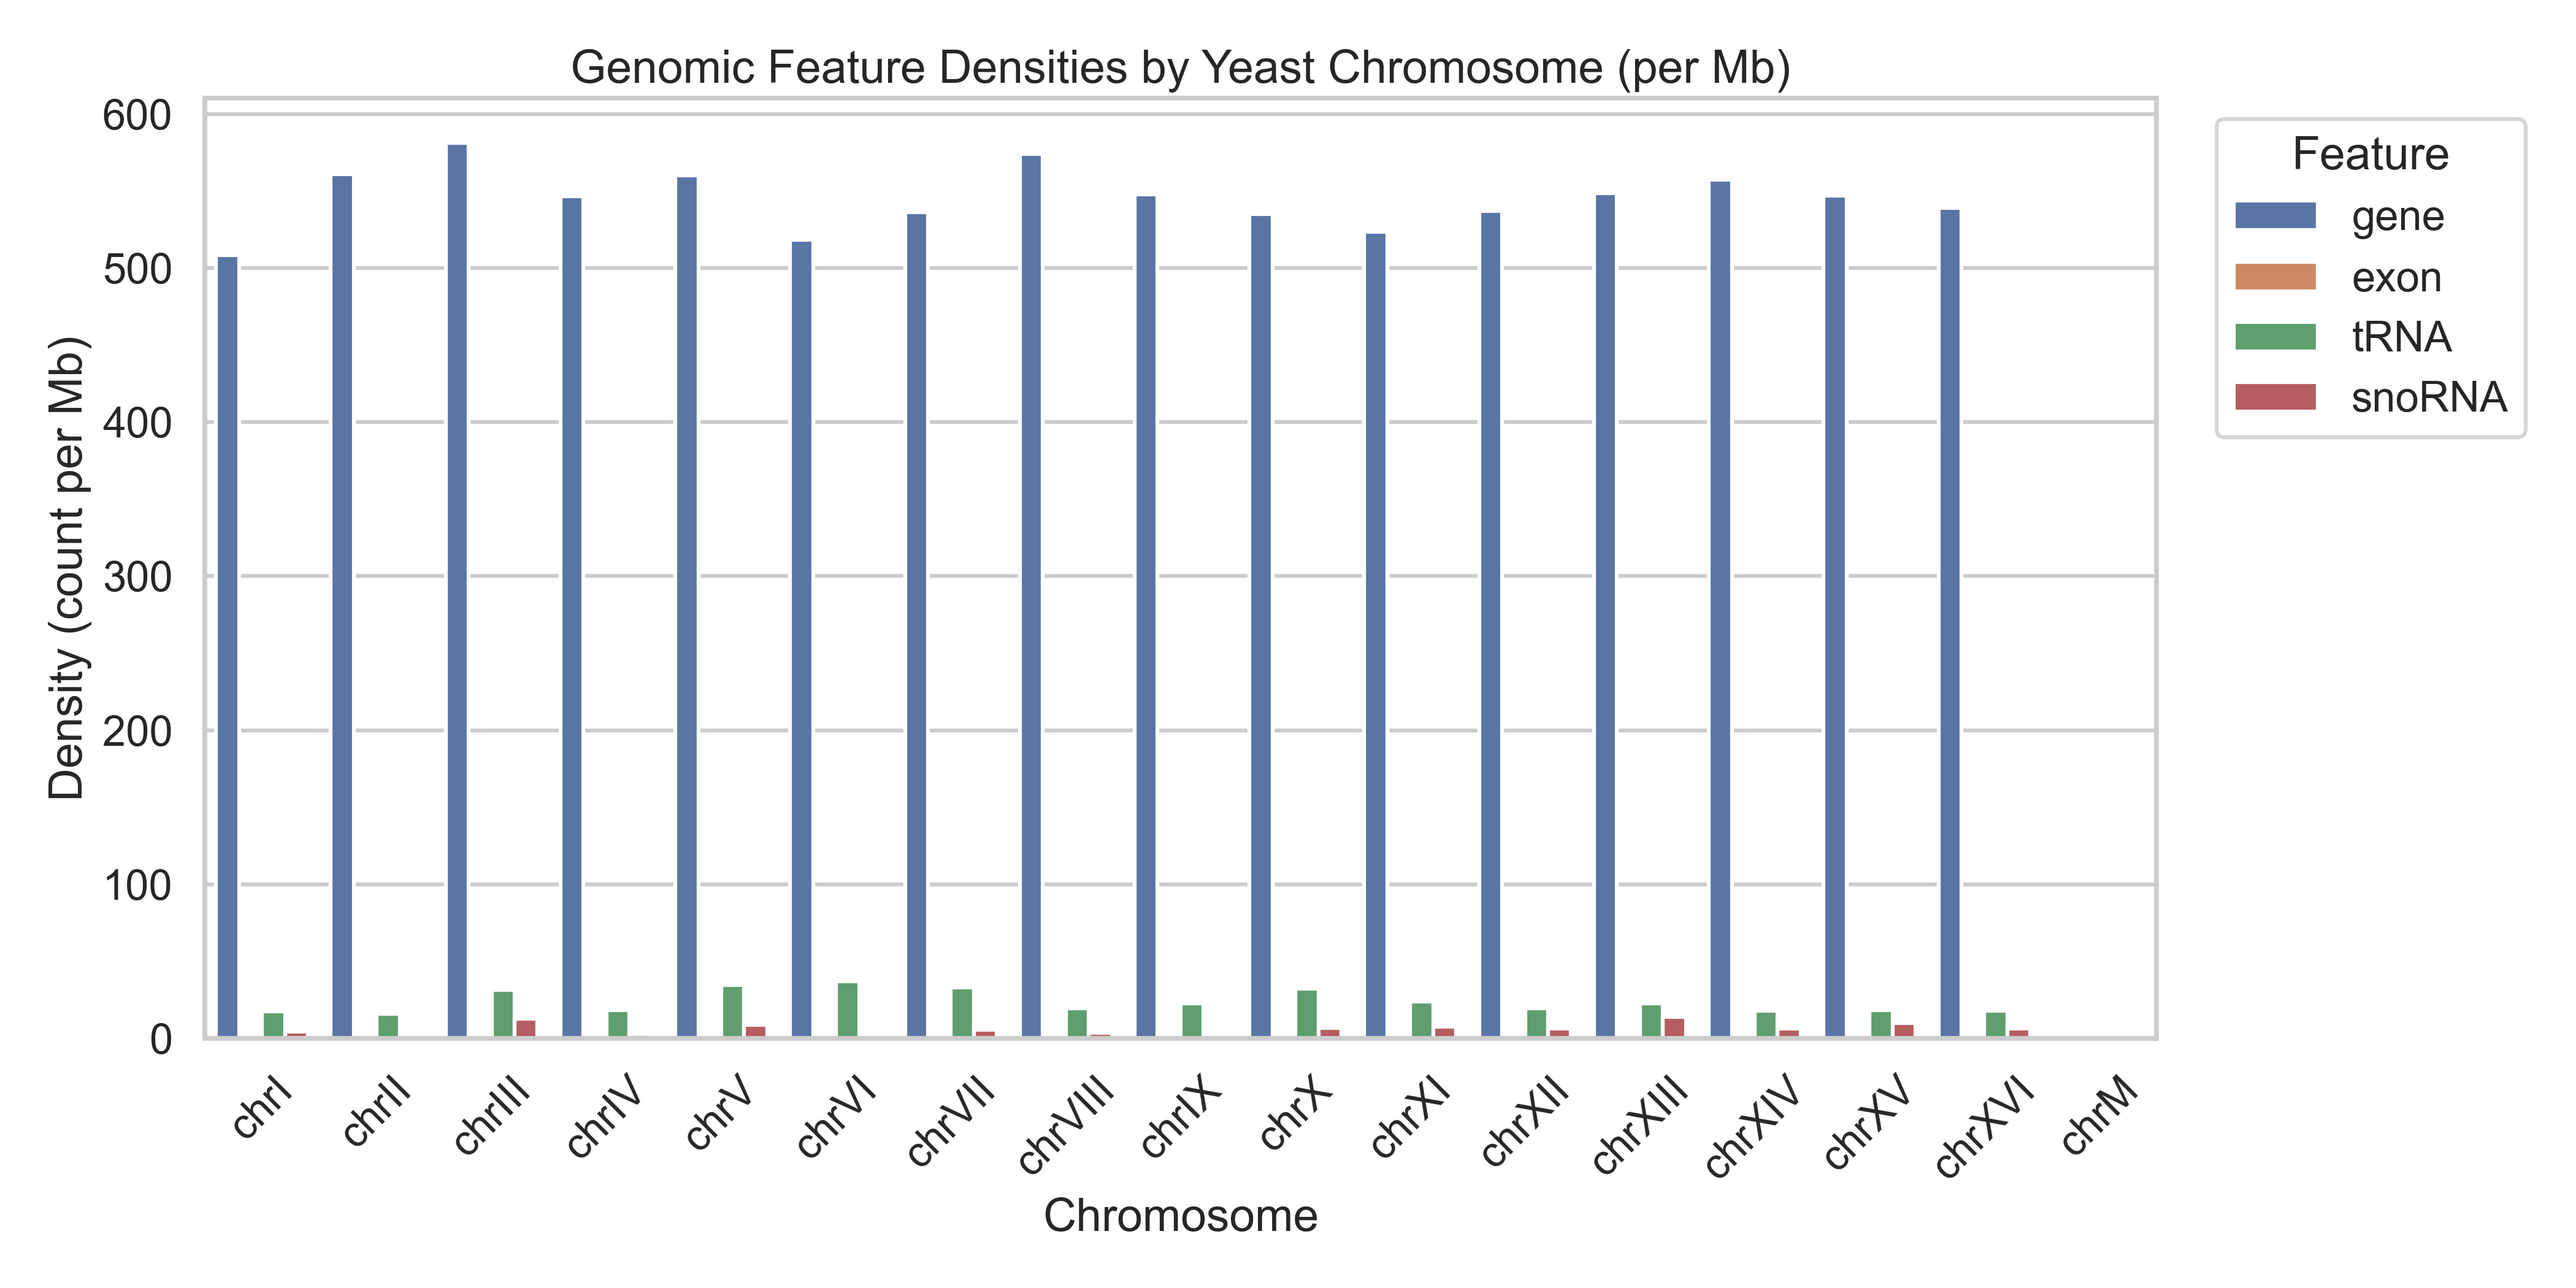
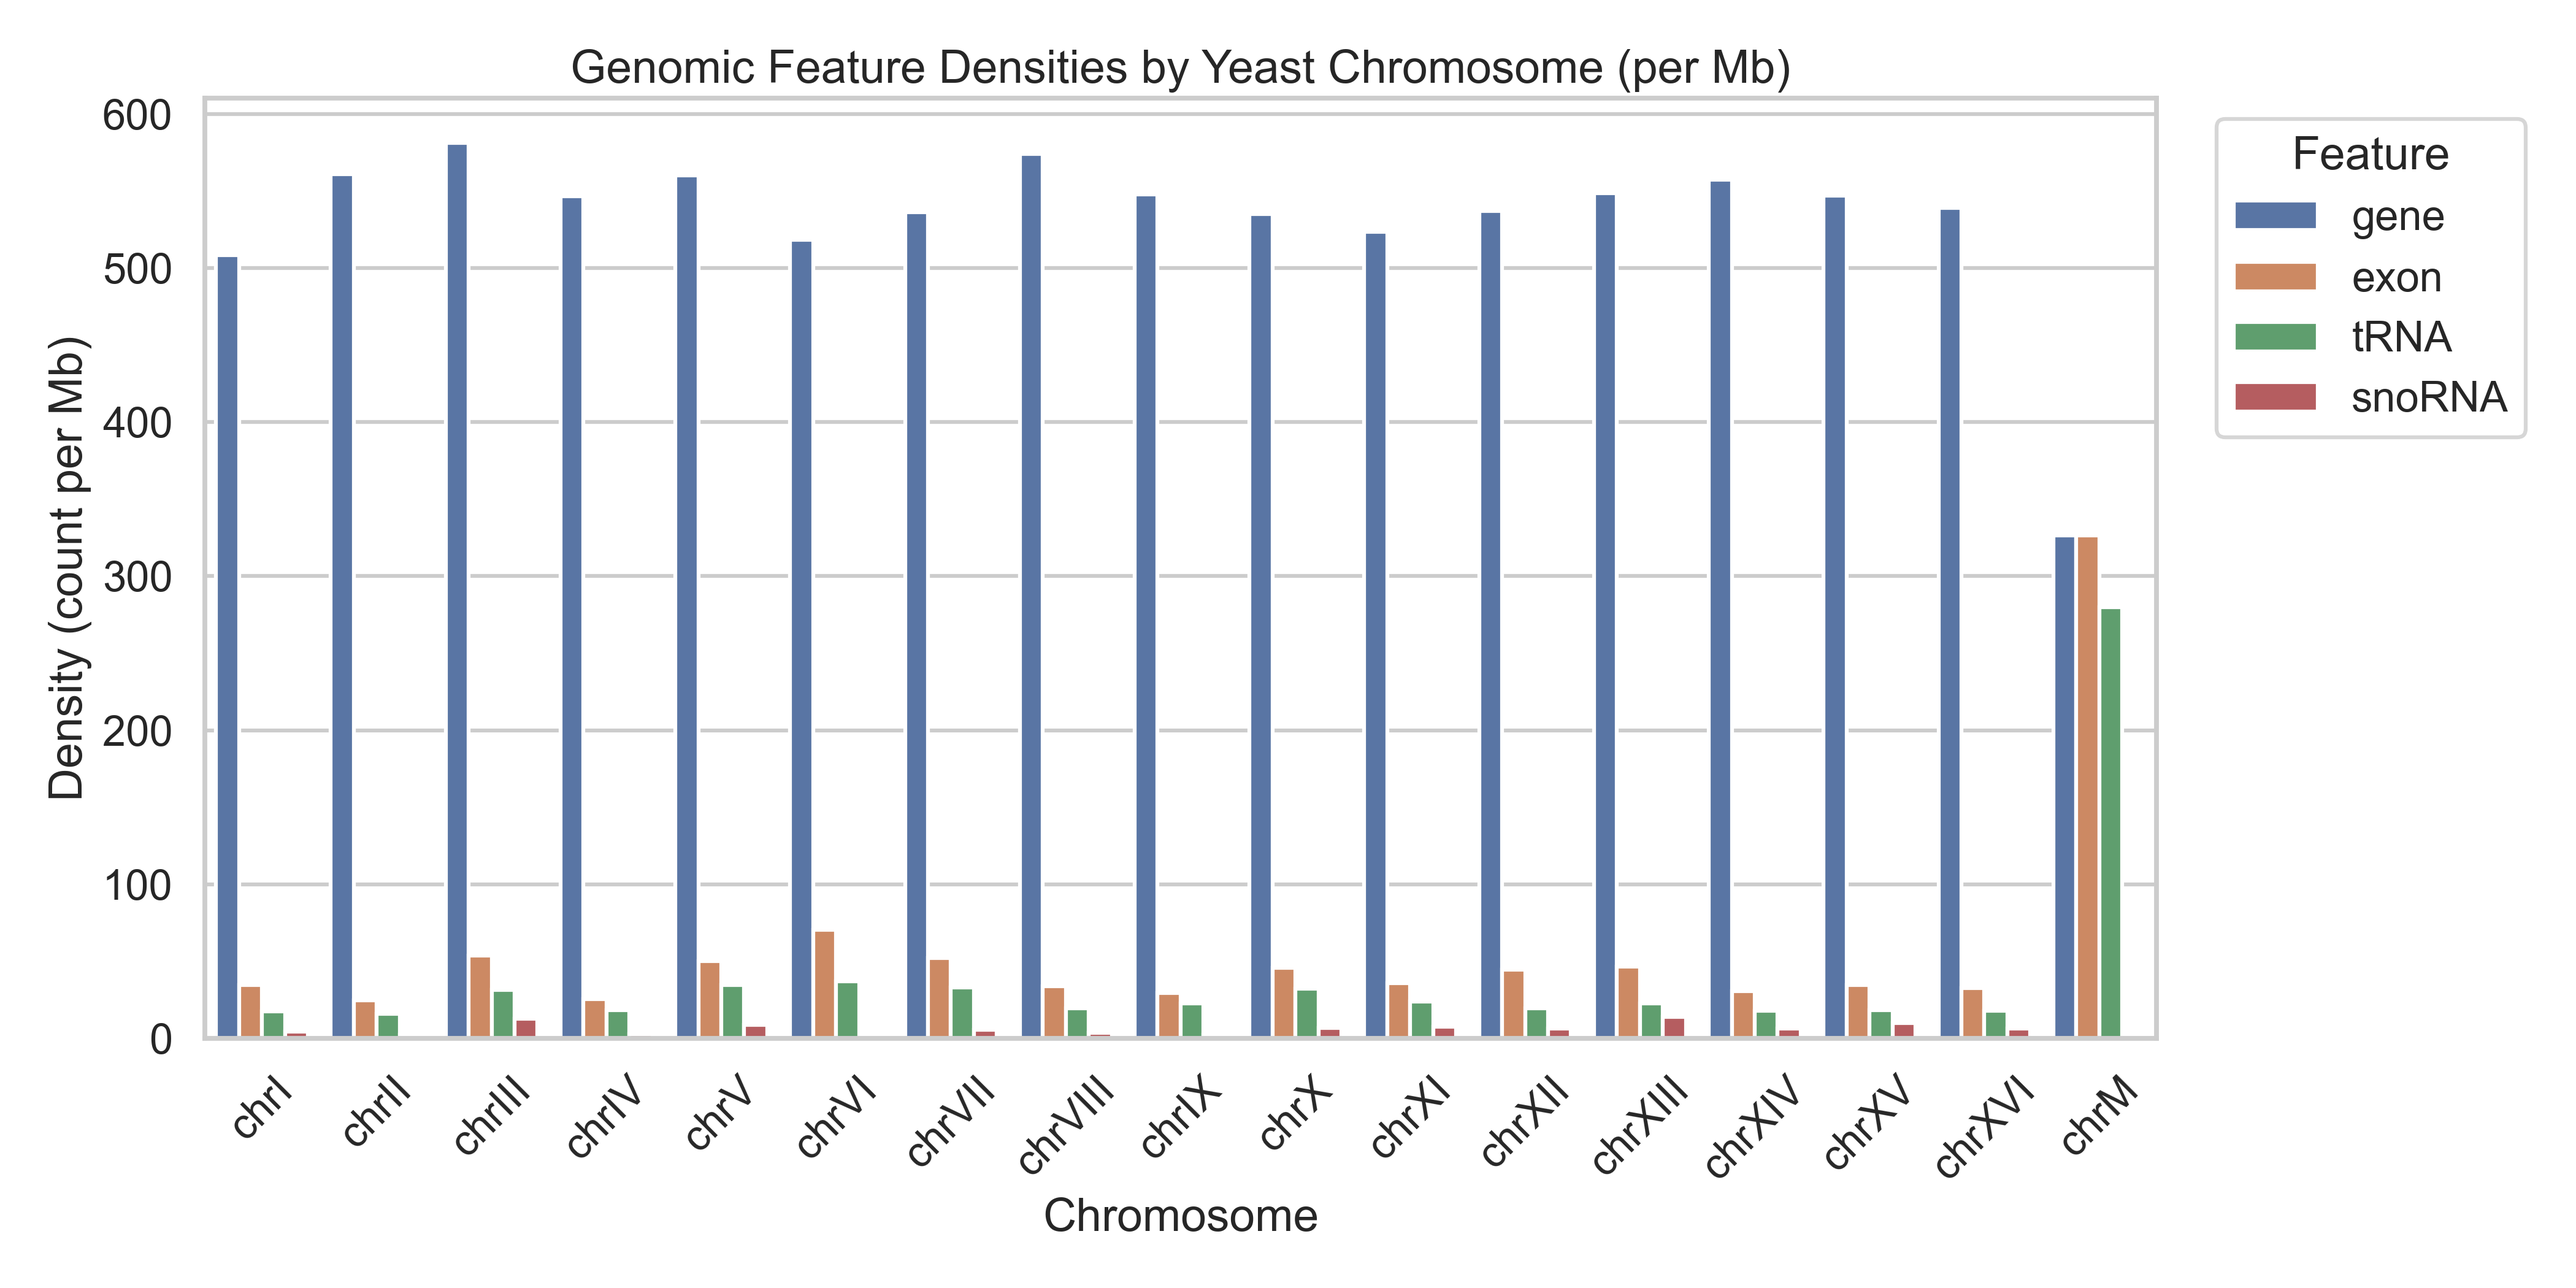
20260226 b

diff --git a/scripts/analyze_yeast_features.py b/scripts/analyze_yeast_features.py
@@ -36,6 +36,7 @@ except Exception:  # pragma: no cover - optional dependency
 
 
 FEATURE_TYPES = ("gene", "exon", "tRNA", "snoRNA")
+EXON_LIKE_FEATURE_TYPES = {"exon", "noncoding_exon"}
 COUNT_COLUMNS = {
     "gene": "gene_count",
     "exon": "exon_count_unique",
@@ -153,6 +154,24 @@ def parse_gff3_counts(
     )
     seen_exons: Dict[str, Set[Tuple[int, int, str]]] = defaultdict(set)
     dropped_seqids: Set[str] = set()
+    valid_seqids_upper = {seqid.upper(): seqid for seqid in valid_seqids}
+
+    def resolve_seqid(seqid: str) -> Optional[str]:
+        if seqid in valid_seqids:
+            return seqid
+
+        s_upper = seqid.upper()
+        alias_candidates = {
+            "CHRMT": ("CHRM", "MT", "M"),
+            "CHRM": ("CHRMT", "MT", "M"),
+            "MT": ("CHRM", "CHRMT", "M"),
+            "M": ("CHRM", "CHRMT", "MT"),
+        }
+        for candidate_upper in alias_candidates.get(s_upper, ()):
+            if candidate_upper in valid_seqids_upper:
+                return valid_seqids_upper[candidate_upper]
+
+        return None
 
     with open_text(gff3_path) as fh:
         for line_num, line in enumerate(tqdm(fh, desc="Parsing GFF3"), start=1):
@@ -164,10 +183,11 @@ def parse_gff3_counts(
                 warnings.warn(f"Skipping malformed GFF3 line {line_num} (expected 9 cols).")
                 continue
 
-            seqid, _source, feature_type, start_s, end_s, _score, strand, _phase, _attrs = cols
+            raw_seqid, _source, feature_type, start_s, end_s, _score, strand, _phase, _attrs = cols
+            seqid = resolve_seqid(raw_seqid)
 
-            if seqid not in valid_seqids:
-                dropped_seqids.add(seqid)
+            if seqid is None:
+                dropped_seqids.add(raw_seqid)
                 continue
 
             try:
@@ -185,7 +205,7 @@ def parse_gff3_counts(
 
             if feature_type == "gene":
                 counts[seqid]["gene_count"] += 1
-            elif feature_type == "exon":
+            elif feature_type in EXON_LIKE_FEATURE_TYPES:
                 # Unique exon counting per chromosome avoids overcounting duplicated rows.
                 exon_key = (start, end, strand)
                 if exon_key not in seen_exons[seqid]:

diff --git a/README_yeast_feature_analysis.md b/README_yeast_feature_analysis.md
@@ -12,7 +12,9 @@ The script `scripts/analyze_yeast_features.py` analyzes a Saccharomyces cerevisi
 Key counting rules:
 
 - Exons are counted as unique intervals per chromosome using `(start, end, strand)` to prevent overcounting.
+- `noncoding_exon` rows are included in the exon count (treated as exon-like features).
 - Chromosome lengths come only from `data/chrom.sizes`.
+- Mitochondrial seqid aliases (for example `chrmt` in GFF vs `chrM` in `chrom.sizes`) are normalized when possible.
 - GFF3 seqids not found in `chrom.sizes` are excluded and logged to `results/dropped_seqids.txt`.
 
 ## Files used
@@ -28,7 +30,7 @@ Note: The script reads `.gz` files directly. You do not need to unzip the GFF3.
 If the environment does not exist yet:
 
 ```bash
-micromamba create -n bch709_vibe_coding -c conda-forge python=3.11 pandas numpy matplotlib seaborn biopython tqdm scipy
+micromamba create -n bch709_vibe_coding -c conda-forge python=3.11 pandas numpy matplotlib seaborn biopython tqdm scipy gawk
 ```
 
 Why `numpy` and `scipy`?
@@ -107,7 +109,7 @@ That means the environment name does not exist yet (even if your shell prompt sh
 Fix:
 
 ```bash
-micromamba create -n bch709_vibe_coding -c conda-forge python=3.11 pandas numpy matplotlib seaborn biopython tqdm scipy
+micromamba create -n bch709_vibe_coding -c conda-forge python=3.11 pandas numpy matplotlib seaborn biopython tqdm scipy gawk
 ```
 
 ## Quick checks (later)
@@ -130,3 +132,79 @@ Check required packages:
 micromamba run -n bch709_vibe_coding python3 -c "import pandas, numpy, matplotlib, seaborn, Bio, tqdm, scipy; print('ok')"
 ```
 
+Check GNU awk:
+
+```bash
+micromamba run -n bch709_vibe_coding gawk --version | head -1
+```
+
+## Synthetic test data + GNU one-liner QC
+
+Small fixture files are included for QC regression checks:
+
+- `tests/fixtures/yeast_qc/chrom.sizes`
+- `tests/fixtures/yeast_qc/test.gff3`
+- `tests/fixtures/yeast_qc/expected_qc_feature_distribution_by_chromosome.csv`
+- `tests/fixtures/yeast_qc/expected_dropped_seqids.txt`
+
+This fixture intentionally includes:
+
+- duplicate exon rows on the same chromosome/strand (should count once)
+- same exon coordinates on opposite strands (should count twice)
+- a `chrUn` feature not present in `chrom.sizes` (should be dropped)
+
+Run the analysis on the fixture:
+
+```bash
+python3 scripts/analyze_yeast_features.py \
+  --gff3 tests/fixtures/yeast_qc/test.gff3 \
+  --chrom-sizes tests/fixtures/yeast_qc/chrom.sizes \
+  --outdir tests/fixtures/yeast_qc/out \
+  --prefix qc
+```
+
+GNU `awk` one-liner QC (validates counts and density columns in `qc_feature_distribution_by_chromosome.csv` against the fixture):
+
+```bash
+gawk -F'\t|,' '
+BEGIN{tol=1e-6}
+FILENAME==ARGV[1] && $1 !~ /^#/ && NF>=2 {len[$1]=$2+0; next}
+FILENAME==ARGV[2] && $0 !~ /^#/ && NF==9 {
+  c=$1; t=$3; s=$4+0; e=$5+0; st=$7;
+  if(!(c in len)) next;
+  if(t=="gene") g[c]++;
+  else if(t=="tRNA") trna[c]++;
+  else if(t=="snoRNA") sno[c]++;
+  else if(t=="exon"){k=c SUBSEP s SUBSEP e SUBSEP st; if(!(k in seen)){seen[k]=1; ex[c]++}}
+  next
+}
+FILENAME==ARGV[3] && FNR==1 {next}
+FILENAME==ARGV[3] {
+  c=$1; L=$2+0;
+  if(!(c in len)) {print "FAIL unexpected chromosome in CSV:", c; bad=1; next}
+  seen_csv[c]++;
+  exp_g=(c in g)?g[c]:0; exp_ex=(c in ex)?ex[c]:0; exp_t=(c in trna)?trna[c]:0; exp_s=(c in sno)?sno[c]:0;
+  if($3+0!=exp_g || $4+0!=exp_ex || $5+0!=exp_t || $6+0!=exp_s){print "FAIL count mismatch", c, "csv=" $3,$4,$5,$6, "exp=" exp_g,exp_ex,exp_t,exp_s; bad=1}
+  mb=L/1000000.0;
+  if(mb<=0){print "FAIL nonpositive length", c; bad=1}
+  if((($7+0)-(exp_g/mb))^2>tol || (($8+0)-(exp_ex/mb))^2>tol || (($9+0)-(exp_t/mb))^2>tol || (($10+0)-(exp_s/mb))^2>tol){
+    print "FAIL density mismatch", c; bad=1
+  }
+  next
+}
+END{
+  for(c in len){
+    if(!(c in seen_csv)){print "FAIL missing chromosome in CSV:", c; bad=1}
+    if(seen_csv[c]>1){print "FAIL duplicate CSV row for chromosome:", c; bad=1}
+  }
+  if(!bad) print "PASS QC: counts and densities match fixture-derived expectations"
+  exit bad
+}' tests/fixtures/yeast_qc/chrom.sizes tests/fixtures/yeast_qc/test.gff3 tests/fixtures/yeast_qc/out/qc_feature_distribution_by_chromosome.csv
+```
+
+Optional exact-file checks after running:
+
+```bash
+diff -u tests/fixtures/yeast_qc/expected_qc_feature_distribution_by_chromosome.csv tests/fixtures/yeast_qc/out/qc_feature_distribution_by_chromosome.csv
+diff -u tests/fixtures/yeast_qc/expected_dropped_seqids.txt tests/fixtures/yeast_qc/out/dropped_seqids.txt
+```
